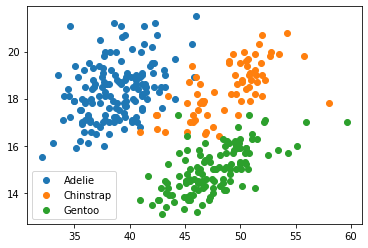
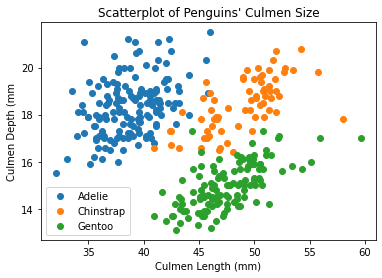
Plot updated

diff --git a/_posts/2021-10-04-Blog-0.md b/_posts/2021-10-04-Blog-0.md
@@ -336,7 +336,7 @@ Originally, I didn't shorten the names of species. As a result, the legend of sp
 
 ## Draw the scatterplot
 
-Now we are ready to create a simple scatterplot of penguins' culmen size. We use for loop to color different species to see whether the data form some clusters. Don't forget to append legend to the graph.
+Now we are ready to create a simple scatterplot of penguins' culmen size. We use for loop to color different species to see whether the data form some clusters. Don't forget to add title, axis names and append legend to the graph.
 
 ```python
 from matplotlib import pyplot as plt
@@ -346,6 +346,11 @@ fig, ax = plt.subplots(1)
 for s in penguins['Species'].unique():
     df = penguins[penguins['Species'] == s]
     ax.scatter(df['Culmen Length (mm)'], df['Culmen Depth (mm)'], label = s)
+
+# Add title and axis names
+plt.title('Scatterplot of Penguins\' Culmen Size')
+plt.xlabel('Culmen Length (mm)')
+plt.ylabel('Culmen Depth (mm')
 
 plt.legend()
 ```
